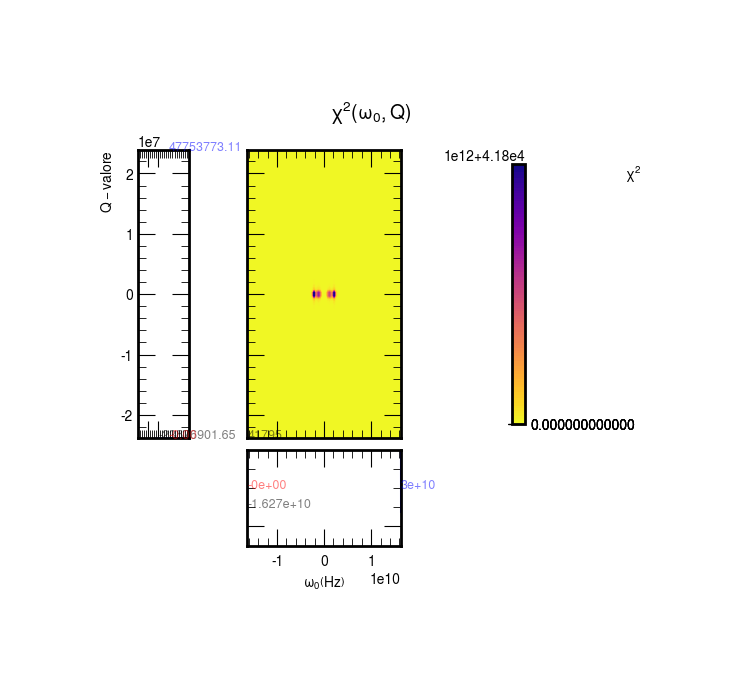
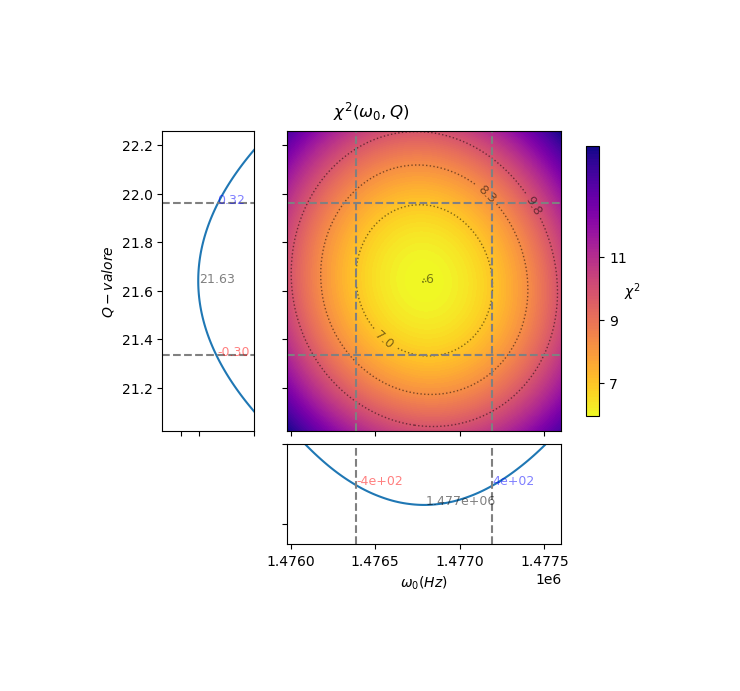
modifiche

diff --git a/RLC freq/mari/provagrafici.py b/RLC freq/mari/provagrafici.py
@@ -15,9 +15,9 @@ def fitf_C(x, A, B, C):
     fitval = A / np.sqrt((1-omega**2/B**2)**2+1/C**2*omega**2/B**2)
     return fitval
 
-def fitf_R(x, A, B, C):
+def fitf_R(x, B, C):
     omega = 2.0 * np.pi * x * 1e3  # input in kHz
-    fitval = A / np.sqrt(1+C**2*(omega/B-B/omega)**2)
+    fitval = 0.322 / np.sqrt(1+C**2*(omega/B-B/omega)**2)
     return fitval
 
 def fitchi2(i,j,k):
@@ -75,7 +75,7 @@ NK = 20
 
 # Input file name
 # file = 'RLC_Cres'   # seleziono per fit su C
-file = 'capiRes'   # seleziono per fit su R
+file = 'passabanda'   # seleziono per fit su R
 inputname = file+'.txt'
 
 # Frequency limits for the fit function (in kHz)
@@ -110,7 +110,7 @@ eVin = np.sqrt((letturaV * Vdiv_in)**2 + (errscalaV * Vin)**2)
 # Calculate the transfer function
 TR = Vo / Vin
 eTR = TR * np.sqrt((eVo / Vo)**2 + (eVin / Vin)**2+ 2 * (errscalaV**2))
-
+print('eTR',eTR)
 # Plot Vin and Vout vs. f e the transfer function vs. f
 
 fig, ax = plt.subplots(1, 2, figsize=(6, 4),sharex=True, constrained_layout = True, width_ratios=[1, 1])
@@ -143,14 +143,18 @@ plt.savefig(file+'_1'+'.png',
             dpi = 100)
 
 plt.show()
-Ainit=0.3157
-Binit=2.0 * np.pi *234990.
-#Binit=2 * np.pi*235000
-Cinit=20.8
-popt=[Ainit,Binit,Cinit]
-pcov=[0.0031, 2000, 1]
-residuA = TR - fitf_R(fr, Ainit,Binit,Cinit)
+#Ainit=0.3157
+#Binit=2.0 * np.pi *234990.
+#Cinit=20.8
+#popt=[Ainit,Binit,Cinit]
+#pcov=[0.0031, 3600, 1]
+Binit=2.0 * np.pi * 234990
+Cinit=21.6
+popt=[ 2.0 * np.pi * 234990, 20.8]
+pcov=[ 3600, 0.9]
+residuA = TR - fitf_R(fr, *popt)
 chisq = np.sum((residuA/eTR)**2)
+print('chi con nostri parametri',chisq)
 df = N - 3
 chisq_rid = chisq/df
 
@@ -163,7 +167,7 @@ fit tracciato con mille punti fra la freq min e max
 # Plot the fit
 fig, ax = plt.subplots(2, 1, figsize=(5, 4),sharex=True, constrained_layout = True, height_ratios=[2, 1])
 ax[0].plot(x_fit, fitf_R(x_fit, *popt), label='Fit', linestyle='--', color='black')
-ax[0].plot(x_fit,fitf_R(x_fit,Ainit,Binit,Cinit), label='init guess', linestyle='dashed', color='green')
+ax[0].plot(x_fit,fitf_R(x_fit,Binit,Cinit), label='init guess', linestyle='dashed', color='green')
 ax[0].errorbar(fr,TR,yerr=eTR, fmt='o', label=r'$T=\frac{V_{out}}{V{in}}$',ms=2,color='red')
 ax[0].legend(loc='upper left')
 ax[0].set_ylabel(r'Funzione di trasferimento $T_R$')
@@ -262,20 +266,23 @@ chisq_res = np.sum((residui_chi2/eTR)**2)
 
 print(chi2_min,argchi2_min, chisq_res)
 
+
 # Grafico nuovamente la regressione e i residui, questa volta ottenuti calcolando a mano il minimo del chi2
-fig, ax = plt.subplots(2, 1, figsize=(3, 5),sharex=True, constrained_layout = True, height_ratios=[2, 1])
-ax[0].plot(x_fit, fitf_R(x_fit, A_chi[argchi2_min[0]],B_chi[argchi2_min[1]],C_chi[argchi2_min[2]]), label='Fit', linestyle='--', color='blue')
+fig, ax = plt.subplots(2, 1, figsize=(5, 5),sharex=True, constrained_layout = True, height_ratios=[4, 1])
+ax[0].plot(x_fit, fitf_R(x_fit, A_chi[argchi2_min[0]],B_chi[argchi2_min[1]],C_chi[argchi2_min[2]]), label='Fit minimo chi^2', linestyle='--', color='blue')
+ax[0].plot(x_fit, fitf_R(x_fit, A_BF,B_BF,C_BF), label='Fit parametri puntuali', linestyle='dashed', color='limegreen')
 #ax[0].plot(x_fit,fitf2(x_fit,Ainit,Binit,Cinit), label='init guess', linestyle='dashed', color='green')
 ax[0].errorbar(fr,TR,yerr=eTR, fmt='o', label=r'$V_{out}$',ms=2,color='red')
-ax[0].legend(loc='upper left')
+ax[0].legend(loc='best')
 ax[0].set_ylabel(r'Funzione di trasferimento $T_R$')
 ax[0].grid(True)
 #ax[0].set_xticks([20,30,40,50])
 
-ax[1].errorbar(fr,residuA,yerr=eTR, fmt='o', label=r'Residui$',ms=2,color='red')
+ax[1].errorbar(fr,residuA,yerr=eTR, fmt='o', label=r'Residui$',ms=2,color='blue')
+ax[1].errorbar(fr,residui_chi2,yerr=eTR, fmt='o', label=r'Residui chi^2',ms=2,color='limegreen')
 ax[1].set_ylabel(r'Residui')
 ax[1].set_xlabel(r'Frequenza (kHz)')
-ax[1].plot(fr,np.zeros(N))
+ax[1].plot(fr,np.zeros(N), c='red')
 ax[1].grid(True)
 plt.savefig(file+'_3'+'.png',
             bbox_inches ="tight",

diff --git a/RLC freq/mari/capiR.py b/RLC freq/mari/capiR.py
@@ -105,7 +105,7 @@ NK = 20
 
 # Input file name
 # file = 'RLC_Cres'   # seleziono per fit su C
-file = 'capiRes'   # seleziono per fit su R
+file = 'passabanda'   # seleziono per fit su R
 inputname = file+'.txt'
 
 # Frequency limits for the fit function (in kHz)
@@ -113,9 +113,9 @@ frfit0 = 10.0
 frfit1 = 100.0
 
 # Initial parameter values
-Ainit= 0.3
-Binit =  2.0 * np.pi *235000.  # Hz
-Cinit = 20. # Hz
+Ainit= 0.322
+Binit =  2.0 * np.pi *234990.  # Hz
+Cinit = 21.6 # Hz
 
 # Assumed reading errors
 letturaV = 0.1*0.41
@@ -189,7 +189,11 @@ perr = np.sqrt(np.diag(pcov))
 print( ' ampiezza = {a:.3f} +/- {b:.3f} \n omega0 = {c:.1f} +/- {d:.1f} kHz \n Q-valore = {e:.1f} +/- {f:.1f}'.format(a=popt[0], b=perr[0],c=popt[1]/1000,d=perr[1]/1000,e=popt[2],f=perr[2]))
 
 residuA = TR - fitf_R(fr, *popt)
+residui_grezzi=TR-fitf_R(fr, Ainit, Binit, Cinit)
+chi_grezzo=np.sum((residui_grezzi/eTR)**2)
+print('chi_grezzo',chi_grezzo)
 chisq = np.sum((residuA/eTR)**2)
+print('chisq',chisq)
 df = N - 3
 chisq_rid = chisq/df
 
@@ -201,19 +205,21 @@ fit tracciato con mille punti fra la freq min e max
 
 # Plot the fit
 fig, ax = plt.subplots(2, 1, figsize=(5, 4),sharex=True, constrained_layout = True, height_ratios=[2, 1])
-ax[0].plot(x_fit, fitf_R(x_fit, *popt), label='Fit', linestyle='--', color='black')
-ax[0].plot(x_fit,fitf_R(x_fit,Ainit,Binit,Cinit), label='init guess', linestyle='dashed', color='green')
+ax[0].plot(x_fit, fitf_R(x_fit, *popt), label='Best Fit', linestyle='--', color='blue')
+ax[0].plot(x_fit,fitf_R(x_fit,Ainit,Binit,Cinit), label='parametri iniziali', linestyle='dashed', color='limegreen')
 ax[0].errorbar(fr,TR,yerr=eTR, fmt='o', label=r'$T=\frac{V_{out}}{V{in}}$',ms=2,color='red')
 ax[0].legend(loc='upper left')
 ax[0].set_ylabel(r'Funzione di trasferimento $T_R$')
 ax[0].grid(True)
 #ax[0].set_xticks([20,30,40,50])
 
-ax[1].errorbar(fr,residuA,yerr=eTR, fmt='o', label=r'Residui$',ms=2,color='red')
+ax[1].errorbar(fr,residuA,yerr=eTR, fmt='o', label=r'Residui',ms=2,color='blue')
+ax[1].errorbar(fr,residui_grezzi,yerr=eTR, fmt='o', label=r'Residui fit iniziale',ms=2,color='limegreen')
 ax[1].set_ylabel(r'Residui')
 ax[1].set_xlabel(r'Frequenza (kHz)')
 ax[1].plot(fr,np.zeros(len(fr)),color='black')
 ax[1].grid(True)
+ax[1].legend(loc='upper right')
 plt.savefig(file+'_2'+'.png',
             bbox_inches ="tight",
             pad_inches = 1,
